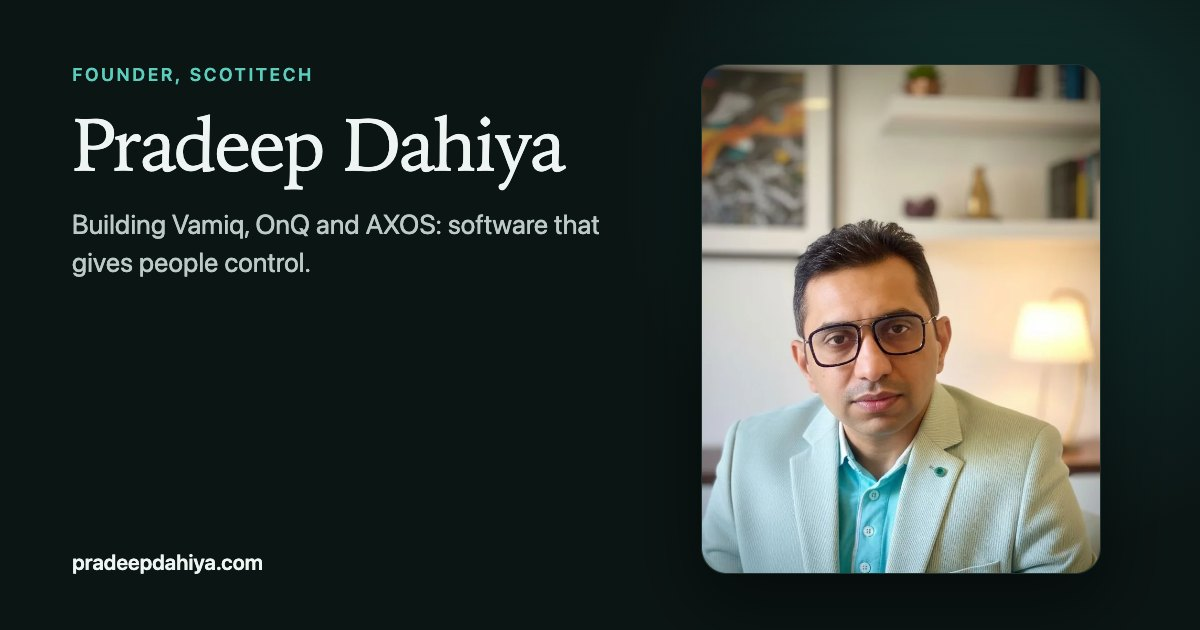
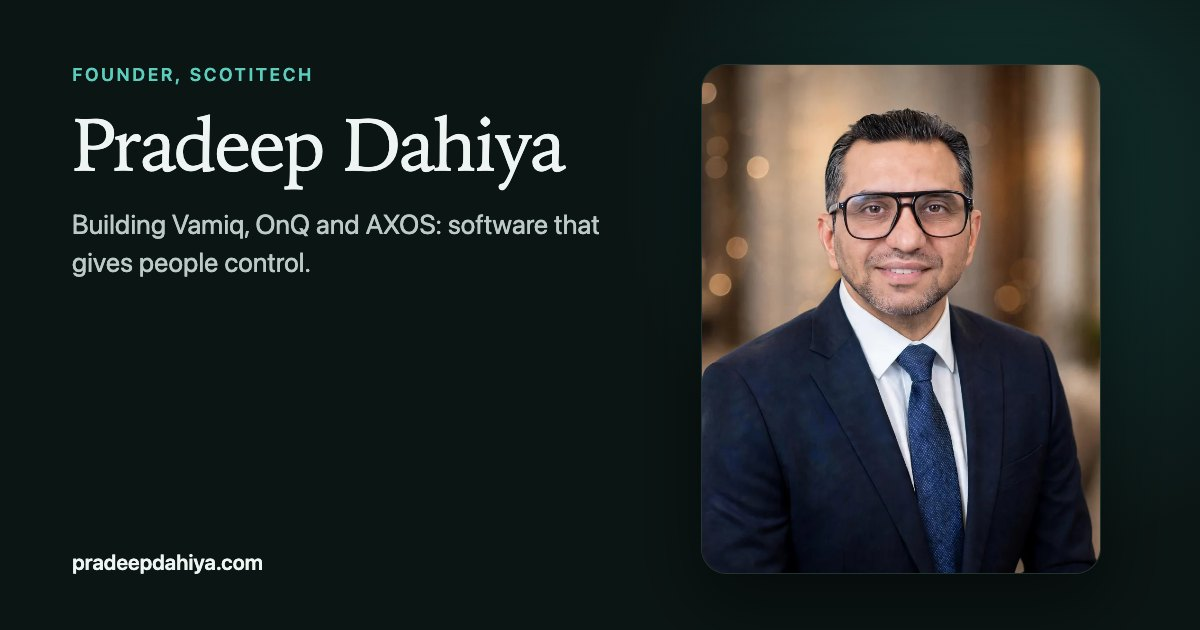
Use the founder's new profile photo
- New headshot in the hero, the article author line, the Person JSON-LD
  and the home share card
- Remove the previous cropped portrait

Changed region(s): [[0.5858, 0.0905, 0.925, 0.9349]]

diff --git a/scripts/og-cards.html b/scripts/og-cards.html
@@ -48,7 +48,7 @@
       eyebrow: "Founder, ScotiTech",
       title: "Pradeep Dahiya",
       sub: "Building Vamiq, OnQ and AXOS: software that gives people control.",
-      visual: '<div class="portrait"><img src="../public/images/about/pradeep-dahiya-portrait-760.webp" alt=""></div>'
+      visual: '<div class="portrait"><img src="../public/images/about/pradeep-dahiya-headshot-840.webp" alt=""></div>'
     },
     vamiq: {
       eyebrow: "Vamiq · by Pradeep Dahiya",

diff --git a/lib/seo.js b/lib/seo.js
@@ -66,7 +66,7 @@ export function personJsonLd() {
     "@id": `${siteUrl}/#person`,
     name: person.name,
     url: siteUrl,
-    image: absoluteUrl("/images/about/pradeep-dahiya-portrait-760.webp"),
+    image: absoluteUrl("/images/about/pradeep-dahiya-headshot-840.webp"),
     jobTitle: "Founder",
     description: SITE_DESCRIPTION,
     email: `mailto:${person.email}`,

diff --git a/lib/site.js b/lib/site.js
@@ -18,9 +18,9 @@ export const person = {
 
 export const portraits = {
   headshot: {
-    src: "/images/about/pradeep-dahiya-portrait-760.webp",
-    width: 759,
-    height: 1040,
+    src: "/images/about/pradeep-dahiya-headshot-840.webp",
+    width: 840,
+    height: 1114,
     alt: "Pradeep Dahiya"
   },
   desk: {
